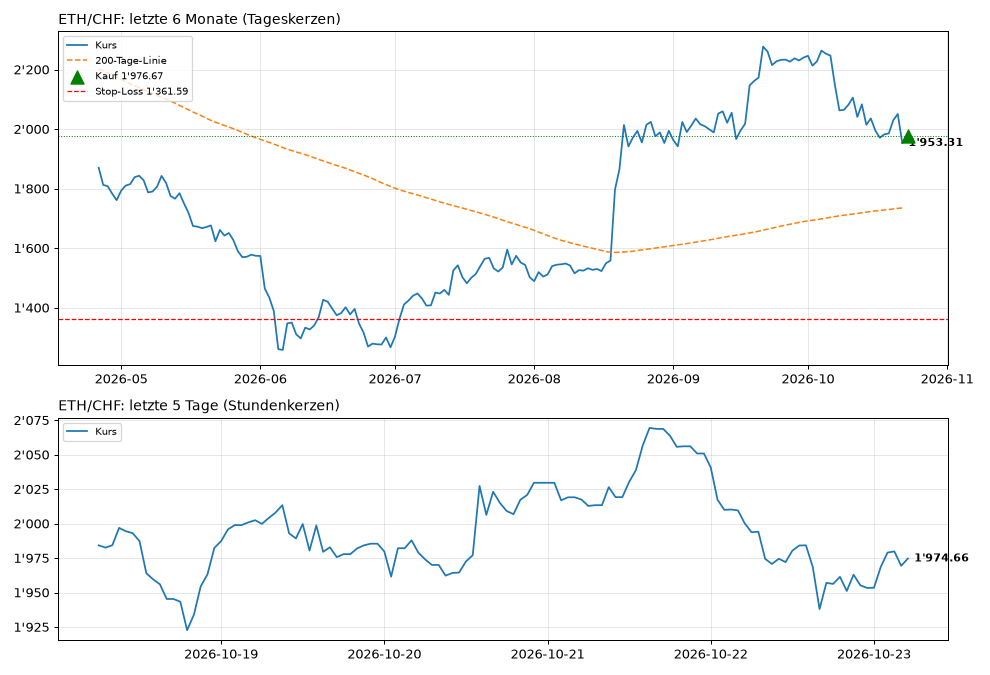
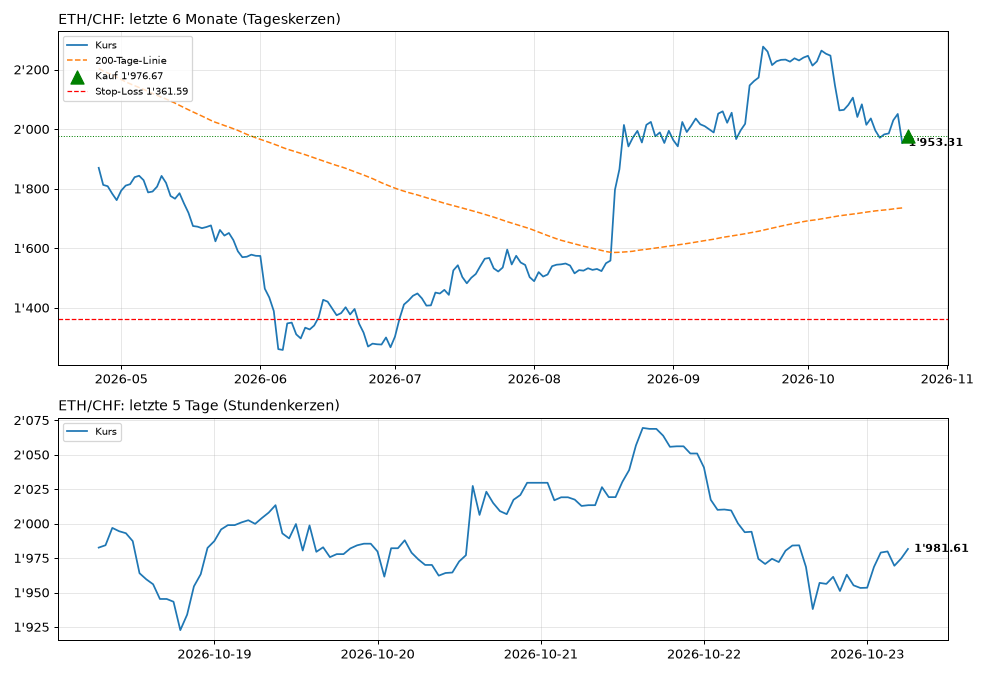
Bot-Lauf 2026-10-23

diff --git a/STATUS.md b/STATUS.md
@@ -1,15 +1,15 @@
 # 📈 Trading-Bot: Übersicht (Demo mit Spielgeld)
 
-Stand: **23.10.2026 08:34** Schweizer Zeit · wird jede Stunde automatisch aktualisiert
+Stand: **23.10.2026 09:07** Schweizer Zeit · wird jede Stunde automatisch aktualisiert
 
 ## Auf einen Blick
 
 | | **Langfrist-Bot (200-Tage-Regel, Hauptbot)** | **Daytrading-Bot (1-Stunden-Kerzen, Vergleich)** |
 |---|---|---|
 | Startkapital | 1'000.00 CHF | 1'000.00 CHF |
-| **Kapital jetzt** | **1'003.02 CHF** | **1'000.00 CHF** |
-| Gewinn / Verlust | 🟢 +3.02 CHF (+0.30 %) | ⚪ +0.00 CHF (+0.00 %) |
-| Im Einsatz (investiert) | 585.52 CHF (58 %) | 0.00 CHF (0 %) |
+| **Kapital jetzt** | **1'003.87 CHF** | **1'000.00 CHF** |
+| Gewinn / Verlust | 🟢 +3.87 CHF (+0.39 %) | ⚪ +0.00 CHF (+0.00 %) |
+| Im Einsatz (investiert) | 586.37 CHF (58 %) | 0.00 CHF (0 %) |
 | Cash (nicht investiert) | 417.51 CHF | 1'000.00 CHF |
 | Offene Positionen | 2 | 0 |
 | Abgeschlossene Trades | 0 | 0 |
@@ -19,8 +19,8 @@ Stand: **23.10.2026 08:34** Schweizer Zeit · wird jede Stunde automatisch aktua
 
 | Coin | Kurs jetzt | 24 Std. | Live-Chart |
 |---|---|---|---|
-| **BTC** | 67'249.90 CHF | 🟢 +0.92 % | [öffnen](https://www.tradingview.com/chart/?symbol=KRAKEN:BTCCHF) |
-| **ETH** | 1'975.68 CHF | 🟢 +1.20 % | [öffnen](https://www.tradingview.com/chart/?symbol=KRAKEN:ETHCHF) |
+| **BTC** | 67'346.40 CHF | 🟢 +1.06 % | [öffnen](https://www.tradingview.com/chart/?symbol=KRAKEN:BTCCHF) |
+| **ETH** | 1'978.75 CHF | 🟢 +1.36 % | [öffnen](https://www.tradingview.com/chart/?symbol=KRAKEN:ETHCHF) |
 
 ## Langfrist-Bot (200-Tage-Regel, Hauptbot)
 
@@ -28,8 +28,8 @@ Stand: **23.10.2026 08:34** Schweizer Zeit · wird jede Stunde automatisch aktua
 
 | Coin | Gekauft am | Einstiegskurs | Kurs jetzt | Menge | Einsatz | Wert jetzt | Gewinn / Verlust | Stop-Loss |
 |---|---|---|---|---|---|---|---|---|
-| **BTC** long | 23.10.2026 01:18 | 66'640.70 | 67'249.90 | 0.007507 | 500.25 CHF | 504.82 CHF | 🟢 +4.57 CHF (+0.91 %) | 53'271.15 (-21 %) |
-| **ETH** long | 23.10.2026 08:33 | 1'976.67 | 1'975.68 | 0.040844 | 80.73 CHF | 80.69 CHF | 🔴 -0.04 CHF (-0.05 %) | 1'361.59 (-31 %) |
+| **BTC** long | 23.10.2026 01:18 | 66'640.70 | 67'346.40 | 0.007507 | 500.25 CHF | 505.55 CHF | 🟢 +5.30 CHF (+1.06 %) | 53'271.15 (-21 %) |
+| **ETH** long | 23.10.2026 08:33 | 1'976.67 | 1'978.75 | 0.040844 | 80.73 CHF | 80.82 CHF | 🟢 +0.09 CHF (+0.11 %) | 1'361.59 (-31 %) |
 
 **Signale jetzt**
 
@@ -38,7 +38,7 @@ Stand: **23.10.2026 08:34** Schweizer Zeit · wird jede Stunde automatisch aktua
 | BTC | 🟢 investiert sein |
 | ETH | 🟢 investiert sein |
 
-**Letzte Entscheidung:** BTC/CHF: Position offen, Signal bestätigt · ETH/CHF: gekauft 0.040844 @ 1976.67
+**Letzte Entscheidung:** BTC/CHF: Position offen, Signal bestätigt · ETH/CHF: Position offen, Signal bestätigt
 
 ## Daytrading-Bot (1-Stunden-Kerzen, Vergleich)
 
